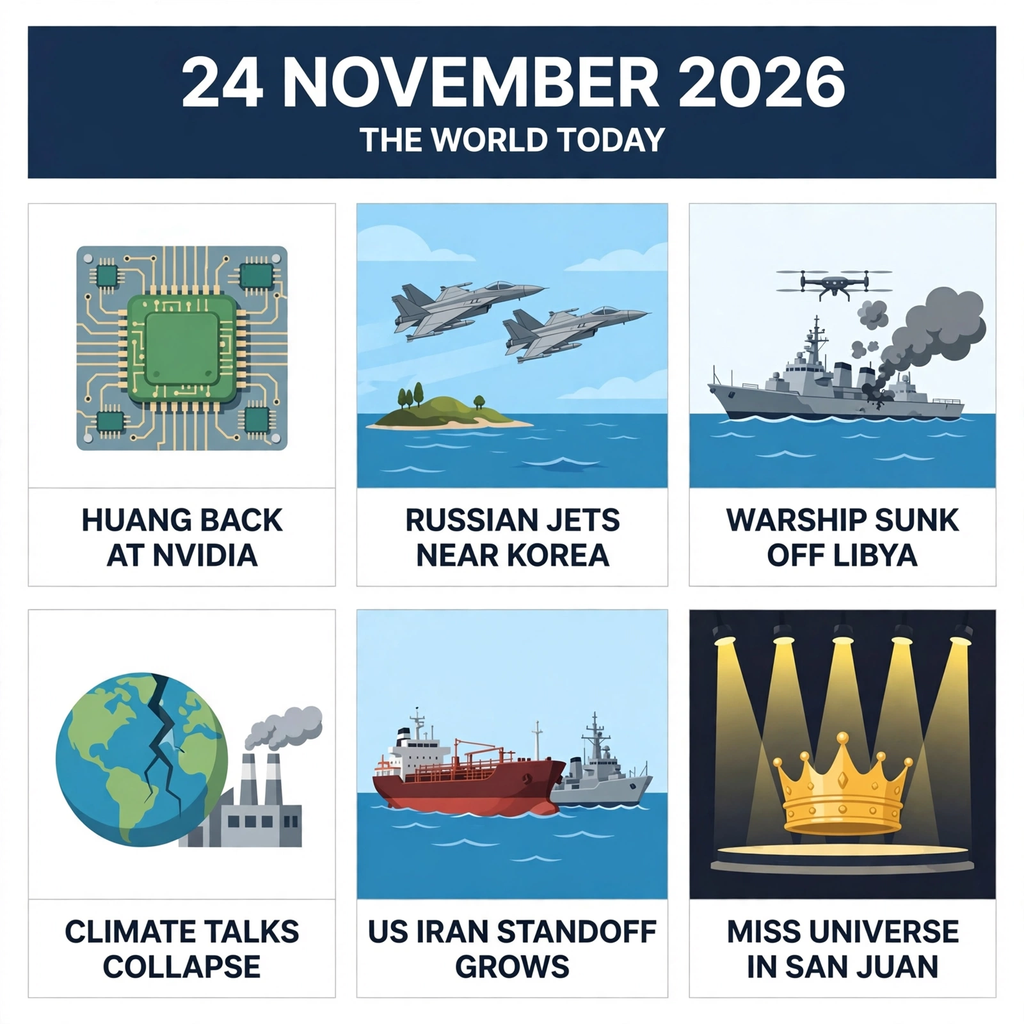
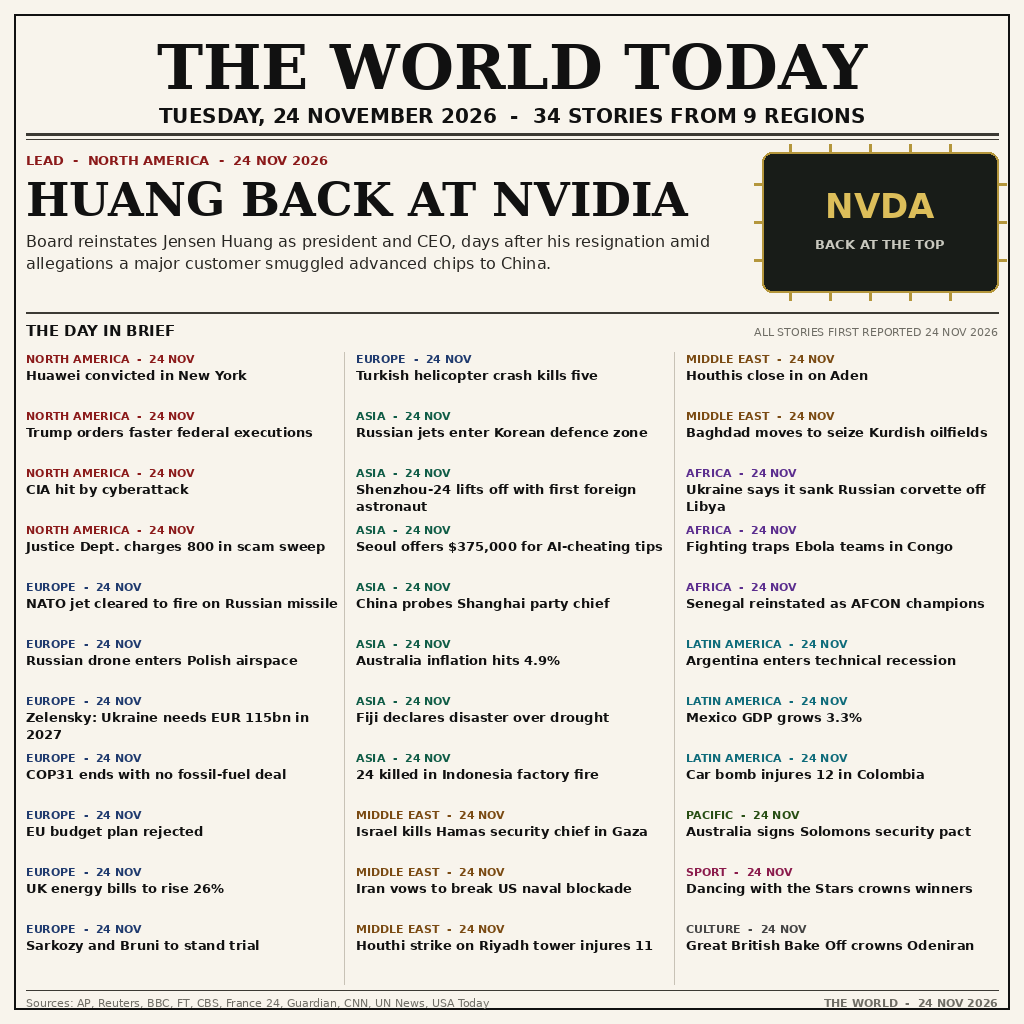
News image v2: 34 dated stories from 9 regions for 24 November 2026
v1 ranked 3094/7302 in round 1 with only 6 stories. v2 is a new
front page drawn from scratch by render_v2.py (Python + PIL):
lead story (Huang back at Nvidia) plus 33 further stories in
three columns, each tagged with its region and the date 24 Nov
2026. All headlines verified against news sources.

diff --git a/render_v2.py b/render_v2.py
@@ -1,0 +1,202 @@
+#!/usr/bin/env python3
+"""Render the v2 news-image entry for 24 November 2026 (1024x1024 PNG).
+
+Draws a newspaper front page with PIL: masthead, one lead story with a
+small chip illustration, then 33 further dated stories in three columns.
+All 34 headlines are real events first reported on 24 November 2026,
+verified against news sources on 25 November 2026.
+"""
+from PIL import Image, ImageDraw, ImageFont
+
+W, H = 1024, 1024
+PAPER = (248, 244, 236)
+INK = (17, 17, 17)
+GREY = (110, 108, 100)
+RULE = (60, 58, 52)
+LIGHT_RULE = (200, 194, 182)
+
+DJ = "/usr/share/fonts/truetype/dejavu/"
+SERIF_B = DJ + "DejaVuSerif-Bold.ttf"
+SANS_B = DJ + "DejaVuSans-Bold.ttf"
+SANS_R = DJ + "DejaVuSans.ttf"
+
+REGION_COLORS = {
+    "NORTH AMERICA": (139, 26, 26),
+    "EUROPE": (31, 58, 110),
+    "ASIA": (15, 92, 70),
+    "MIDDLE EAST": (122, 74, 18),
+    "AFRICA": (91, 45, 142),
+    "LATIN AMERICA": (14, 107, 122),
+    "PACIFIC": (39, 78, 19),
+    "SPORT": (138, 26, 75),
+    "CULTURE": (68, 68, 68),
+}
+
+LEAD = ("HUANG BACK AT NVIDIA",
+        "Board reinstates Jensen Huang as president and CEO, days after "
+        "his resignation amid allegations a major customer smuggled "
+        "advanced chips to China.")
+
+# (region, headline) - 33 items, 3 columns of 11.
+STORIES = [
+    ("NORTH AMERICA", "Huawei convicted in New York"),
+    ("NORTH AMERICA", "Trump orders faster federal executions"),
+    ("NORTH AMERICA", "CIA hit by cyberattack"),
+    ("NORTH AMERICA", "Justice Dept. charges 800 in scam sweep"),
+    ("EUROPE", "NATO jet cleared to fire on Russian missile"),
+    ("EUROPE", "Russian drone enters Polish airspace"),
+    ("EUROPE", "Zelensky: Ukraine needs EUR 115bn in 2027"),
+    ("EUROPE", "COP31 ends with no fossil-fuel deal"),
+    ("EUROPE", "EU budget plan rejected"),
+    ("EUROPE", "UK energy bills to rise 26%"),
+    ("EUROPE", "Sarkozy and Bruni to stand trial"),
+    ("EUROPE", "Turkish helicopter crash kills five"),
+    ("ASIA", "Russian jets enter Korean defence zone"),
+    ("ASIA", "Shenzhou-24 lifts off with first foreign astronaut"),
+    ("ASIA", "Seoul offers $375,000 for AI-cheating tips"),
+    ("ASIA", "China probes Shanghai party chief"),
+    ("ASIA", "Australia inflation hits 4.9%"),
+    ("ASIA", "Fiji declares disaster over drought"),
+    ("ASIA", "24 killed in Indonesia factory fire"),
+    ("MIDDLE EAST", "Israel kills Hamas security chief in Gaza"),
+    ("MIDDLE EAST", "Iran vows to break US naval blockade"),
+    ("MIDDLE EAST", "Houthi strike on Riyadh tower injures 11"),
+    ("MIDDLE EAST", "Houthis close in on Aden"),
+    ("MIDDLE EAST", "Baghdad moves to seize Kurdish oilfields"),
+    ("AFRICA", "Ukraine says it sank Russian corvette off Libya"),
+    ("AFRICA", "Fighting traps Ebola teams in Congo"),
+    ("AFRICA", "Senegal reinstated as AFCON champions"),
+    ("LATIN AMERICA", "Argentina enters technical recession"),
+    ("LATIN AMERICA", "Mexico GDP grows 3.3%"),
+    ("LATIN AMERICA", "Car bomb injures 12 in Colombia"),
+    ("PACIFIC", "Australia signs Solomons security pact"),
+    ("SPORT", "Dancing with the Stars crowns winners"),
+    ("CULTURE", "Great British Bake Off crowns Odeniran"),
+]
+
+
+def font(path, size):
+    return ImageFont.truetype(path, size)
+
+
+def wrap(draw, text, fnt, width):
+    """Greedy word wrap by pixel width; returns list of lines."""
+    words = text.split()
+    lines, cur = [], ""
+    for w in words:
+        trial = (cur + " " + w).strip()
+        if draw.textlength(trial, font=fnt) <= width:
+            cur = trial
+        else:
+            if cur:
+                lines.append(cur)
+            cur = w
+    if cur:
+        lines.append(cur)
+    return lines
+
+
+def main():
+    img = Image.new("RGB", (W, H), PAPER)
+    d = ImageDraw.Draw(img)
+    mx = 26  # side margin
+
+    # outer frame
+    d.rectangle([14, 14, W - 15, H - 15], outline=INK, width=2)
+
+    # ---- masthead ----
+    f_mast = font(SERIF_B, 62)
+    title = "THE WORLD TODAY"
+    tw = d.textlength(title, font=f_mast)
+    d.text(((W - tw) / 2, 30), title, font=f_mast, fill=INK)
+    f_date = font(SANS_B, 20)
+    dateline = "TUESDAY, 24 NOVEMBER 2026  -  34 STORIES FROM 9 REGIONS"
+    tw = d.textlength(dateline, font=f_date)
+    d.text(((W - tw) / 2, 104), dateline, font=f_date, fill=INK)
+    d.line([(mx, 134), (W - mx, 134)], fill=RULE, width=3)
+    d.line([(mx, 139), (W - mx, 139)], fill=RULE, width=1)
+
+    # ---- lead story ----
+    f_kick = font(SANS_B, 13)
+    d.text((mx, 152), "LEAD  -  NORTH AMERICA  -  24 NOV 2026",
+           font=f_kick, fill=(139, 26, 26))
+    f_lead = font(SERIF_B, 46)
+    d.text((mx, 172), LEAD[0], font=f_lead, fill=INK)
+    f_dek = font(SANS_R, 16)
+    for i, line in enumerate(wrap(d, LEAD[1], f_dek, 690)):
+        d.text((mx, 232 + i * 22), line, font=f_dek, fill=(40, 38, 34))
+
+    # small chip illustration (Nvidia) on the right of the lead
+    cx0, cy0, cx1, cy1 = 762, 152, 998, 292
+    d.rounded_rectangle([cx0, cy0, cx1, cy1], radius=10,
+                        fill=(24, 28, 24), outline=(180, 150, 60), width=2)
+    # pins
+    for i in range(5):
+        x = cx0 + 28 + i * 40
+        d.line([(x, cy0 - 8), (x, cy0)], fill=(180, 150, 60), width=3)
+        d.line([(x, cy1), (x, cy1 + 8)], fill=(180, 150, 60), width=3)
+    for j in range(3):
+        y = cy0 + 32 + j * 38
+        d.line([(cx0 - 8, y), (cx0, y)], fill=(180, 150, 60), width=3)
+        d.line([(cx1, y), (cx1 + 8, y)], fill=(180, 150, 60), width=3)
+    f_chip = font(SANS_B, 34)
+    label = "NVDA"
+    tw = d.textlength(label, font=f_chip)
+    d.text(((cx0 + cx1 - tw) / 2, cy0 + 34), label, font=f_chip,
+           fill=(220, 190, 90))
+    f_chip2 = font(SANS_B, 13)
+    sub = "BACK AT THE TOP"
+    tw = d.textlength(sub, font=f_chip2)
+    d.text(((cx0 + cx1 - tw) / 2, cy0 + 84), sub, font=f_chip2,
+           fill=(200, 200, 190))
+
+    # ---- section strip ----
+    d.line([(mx, 312), (W - mx, 312)], fill=RULE, width=2)
+    f_sec = font(SANS_B, 15)
+    d.text((mx, 322), "THE DAY IN BRIEF", font=f_sec, fill=INK)
+    f_sec2 = font(SANS_R, 11)
+    note = "ALL STORIES FIRST REPORTED 24 NOV 2026"
+    tw = d.textlength(note, font=f_sec2)
+    d.text((W - mx - tw, 325), note, font=f_sec2, fill=GREY)
+
+    # ---- story grid: 3 columns x 11 rows ----
+    grid_top = 352
+    grid_bottom = 984
+    row_h = (grid_bottom - grid_top) // 11
+    col_x = [26, 356, 686]
+    col_w = 312
+    f_tag = font(SANS_B, 11)
+    f_head = font(SANS_B, 13)
+
+    for i, (region, headline) in enumerate(STORIES):
+        col = i // 11
+        row = i % 11
+        x = col_x[col]
+        y = grid_top + row * row_h
+        d.text((x, y), region + "  -  24 NOV", font=f_tag,
+               fill=REGION_COLORS[region])
+        lines = wrap(d, headline, f_head, col_w)[:2]
+        for j, line in enumerate(lines):
+            d.text((x, y + 15 + j * 17), line, font=f_head, fill=INK)
+
+    # column dividers
+    for x in (344, 674):
+        d.line([(x, grid_top), (x, grid_bottom)], fill=LIGHT_RULE, width=1)
+
+    # ---- footer ----
+    d.line([(mx, 990), (W - mx, 990)], fill=RULE, width=1)
+    f_foot = font(SANS_R, 11)
+    foot = ("Sources: AP, Reuters, BBC, FT, CBS, France 24, Guardian, CNN, "
+            "UN News, USA Today")
+    d.text((mx, 996), foot, font=f_foot, fill=GREY)
+    f_foot2 = font(SANS_B, 11)
+    tw = d.textlength("THE WORLD  -  24 NOV 2026", font=f_foot2)
+    d.text((W - mx - tw, 996), "THE WORLD  -  24 NOV 2026",
+           font=f_foot2, fill=GREY)
+
+    img.save("entry.png", optimize=True)
+    print("saved entry.png")
+
+
+if __name__ == "__main__":
+    main()

diff --git a/README.md b/README.md
@@ -10,18 +10,43 @@ one image summing up Tuesday 24 November 2026's world news.
 
 ## What the image shows
 
-- **Huang back at Nvidia** — Nvidia's board reinstated Jensen Huang as
-  president and CEO, days after his resignation.
-- **Russian jets near Korea** — Russian warplanes entered South Korea's air
-  defence zone; an evacuation warning went out for Ulleung Island.
-- **Warship sunk off Libya** — Ukraine said it sank a Russian naval corvette
-  in a Libyan port with maritime drones.
-- **Climate talks collapse** — the COP31 climate talks in Turkey collapsed
-  without agreement on moving away from fossil fuels.
-- **US–Iran standoff grows** — Iran vowed to confront a US naval blockade
-  as Washington imposed new sanctions on its shadow banking networks.
-- **Miss Universe in San Juan** — the 75th Miss Universe pageant took place
-  in San Juan, Puerto Rico.
+A newspaper front page for Tuesday 24 November 2026: 34 stories from
+9 regions, every one first reported that day.
+
+- **Lead — Huang back at Nvidia** — Nvidia's board reinstated Jensen
+  Huang as president and CEO, days after his resignation amid
+  allegations a major customer smuggled advanced chips to China.
+- **North America (4 more)** — Huawei convicted in New York; Trump
+  orders faster federal executions; CIA hit by cyberattack; Justice
+  Dept. charges 800 in a scam sweep.
+- **Europe (8)** — NATO jet cleared to fire on a Russian missile over
+  Poland; Russian drone enters Polish airspace; Zelensky: Ukraine
+  needs EUR 115bn in 2027; COP31 ends with no fossil-fuel deal; EU
+  budget plan rejected; UK energy bills to rise 26%; Sarkozy and
+  Bruni to stand trial; Turkish helicopter crash kills five.
+- **Asia (7)** — Russian jets enter Korea's defence zone; Shenzhou-24
+  lifts off with the first foreign astronaut to Tiangong; Seoul
+  offers $375,000 for AI-cheating tips; China probes Shanghai party
+  chief; Australia inflation hits 4.9%; Fiji declares disaster over
+  drought; 24 killed in an Indonesia factory fire.
+- **Middle East (5)** — Israel kills Hamas security chief in Gaza;
+  Iran vows to break the US naval blockade; Houthi strike on a
+  Riyadh tower injures 11; Houthis close in on Aden; Baghdad moves
+  to seize Kurdish oilfields.
+- **Africa (3)** — Ukraine says it sank a Russian corvette off Libya;
+  fighting traps Ebola teams in Congo; Senegal reinstated as AFCON
+  champions.
+- **Latin America (3)** — Argentina enters technical recession;
+  Mexico GDP grows 3.3%; car bomb injures 12 in Colombia.
+- **Pacific (1)** — Australia signs a Solomons security pact.
+- **Sport & culture (2)** — Dancing with the Stars crowns winners;
+  Great British Bake Off crowns Odeniran.
+
+The image is drawn from scratch by `render_v2.py` (Python + PIL, no
+external assets): masthead, lead story with a chip illustration, and
+the 33 further stories in three columns, each tagged with its region
+and the date 24 Nov 2026. Sources: AP, Reuters, BBC, FT, CBS,
+France 24, Guardian, CNN, UN News, USA Today.
 
 ## How it runs
 
